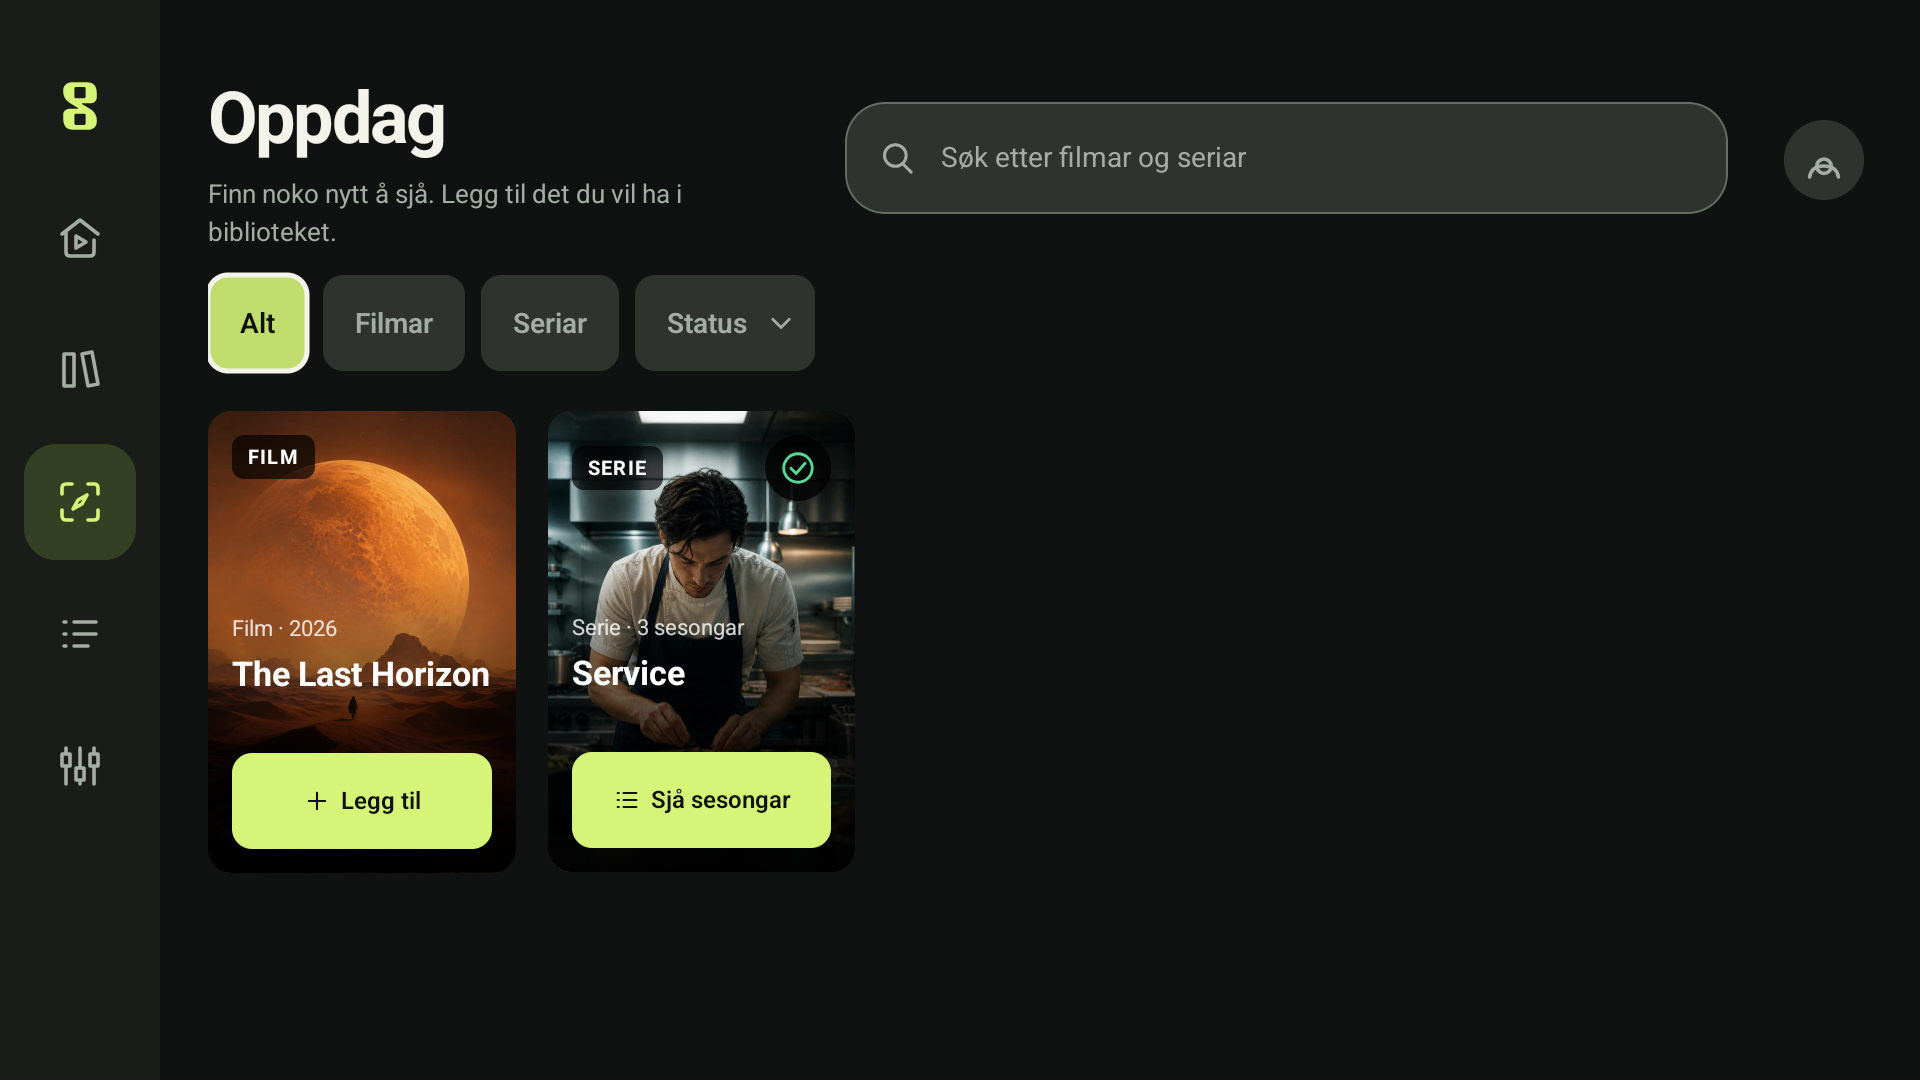
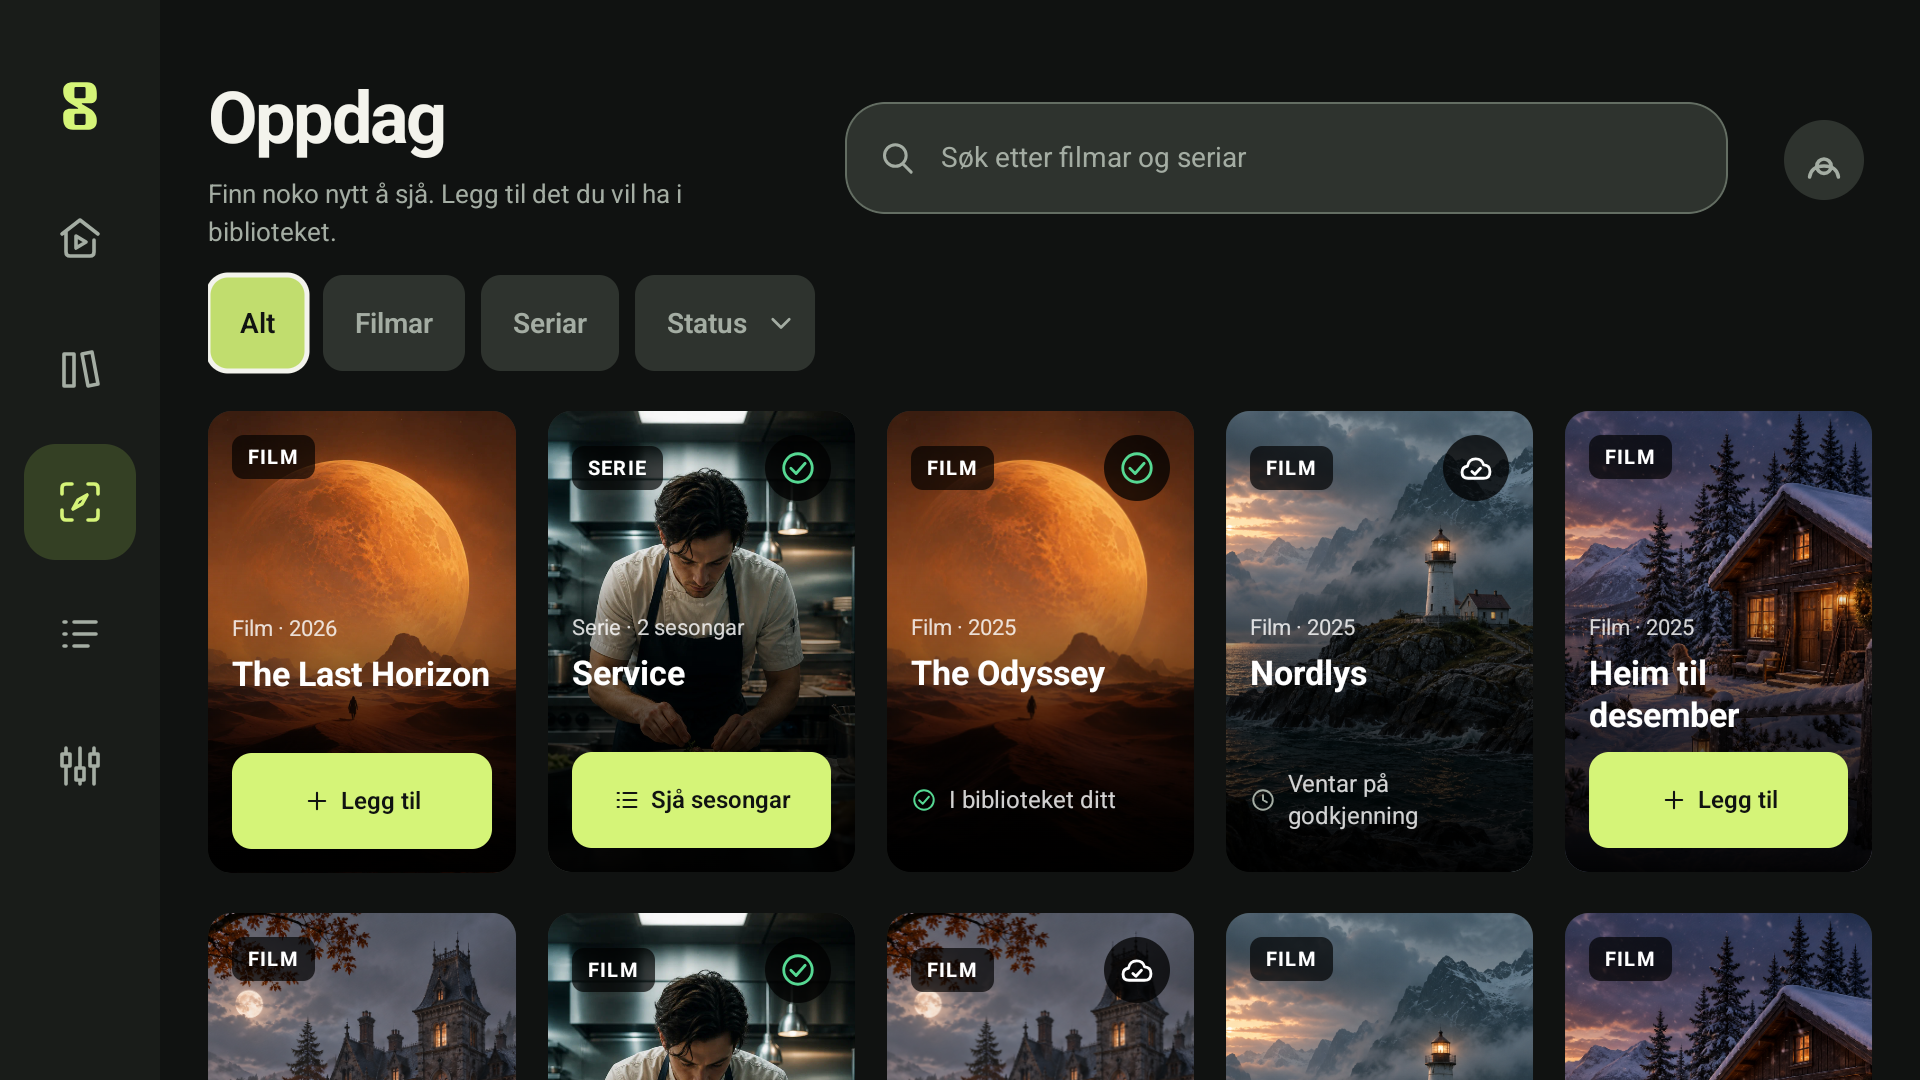
Show richer offline demo and seasonal themes on three screen sizes

diff --git a/docs/images/devices/README.md b/docs/images/devices/README.md
@@ -10,6 +10,8 @@ etter 0.16.0-alpha24. Dei er ikkje designskisser. Sjå merkinga i hovud-README f
 - Namn og aktivitet i demovisninga er oppdikta, og seier ingenting om faktisk sjåarhistorikk.
 - Kontoopplysningar er utelatne før biletet blir teke; dei er ikkje berre sladda med eit gjennomsiktig lag.
 - Bileta er visuelt kontrollerte før publisering. Innhaldskunst kjem frå appen sine eksisterande demoressursar.
+- Den utvida demoen har også tre nye, AI-genererte fiktive omslag. Vurderingar, titlar og aktivitet er eksempeldata.
+- Sesongbileta bruker redusert rørsle for eit stabilt opptak; dei viser statisk pynt, ikkje animerte partiklar.
 - TV-bileta bruker TV-modus. Nettbrettbileta er tekne i eit emulert nettbrettvindauge på 1920 × 1200 pikslar.
   Telefonbileta bruker den eksisterande isolerte telefonprofilen. Ingen fysisk eining er brukt til desse bileta.
 
@@ -31,6 +33,26 @@ etter 0.16.0-alpha24. Dei er ikkje designskisser. Sjå merkinga i hovud-README f
   <img src="phone-home.png" width="30%" alt="Heim på telefon" />
   <img src="phone-discover.png" width="30%" alt="Oppdag på telefon" />
   <img src="phone-settings.png" width="30%" alt="Innstillingar på telefon" />
+</p>
+
+
+## Jul og Halloween
+
+### TV
+
+![Jul på TV](tv-home-christmas.png)
+![Halloween på TV](tv-home-halloween.png)
+
+### Nettbrett
+
+![Jul på nettbrett](tablet-home-christmas.png)
+![Halloween på nettbrett](tablet-home-halloween.png)
+
+### Telefon
+
+<p>
+  <img src="phone-home-christmas.png" width="45%" alt="Jul på telefon" />
+  <img src="phone-home-halloween.png" width="45%" alt="Halloween på telefon" />
 </p>
 
 Reproduserbar fangst ligg i PublicScreenshotsTest på utviklingsgreina.

diff --git a/docs/APP_GUIDE.md b/docs/APP_GUIDE.md
@@ -49,6 +49,10 @@ På TV finst også val for å skjule sidepanelet til du navigerer ut mot venstre
 
 ## Nytt i kjeldekoden, kjem i neste APK
 
+- **Utvida offline-demo:** 18 bibliotekstitlar med omtale og eksempelvurdering, hero på TV og nettbrett,
+  favorittar, neste episodar og fleire innhaldsrader. Prøv jul og Halloween under Utsjånad.
+  Demoinnhaldet sender ikkje ekte førespurnader og inneheld ikkje avspelbare filmar.
+
 - **Rekkjefølgje på Heim:** Innstillingar → Heim → Rekkjefølgje. Flytt radene med pilene; valet blir lagra.
 - **Filmvurdering:** ei diskret stjerne og poengsum på filmkortet når tenaren har ei vurdering.
   Valet for å vise vurderingar blir respektert.
